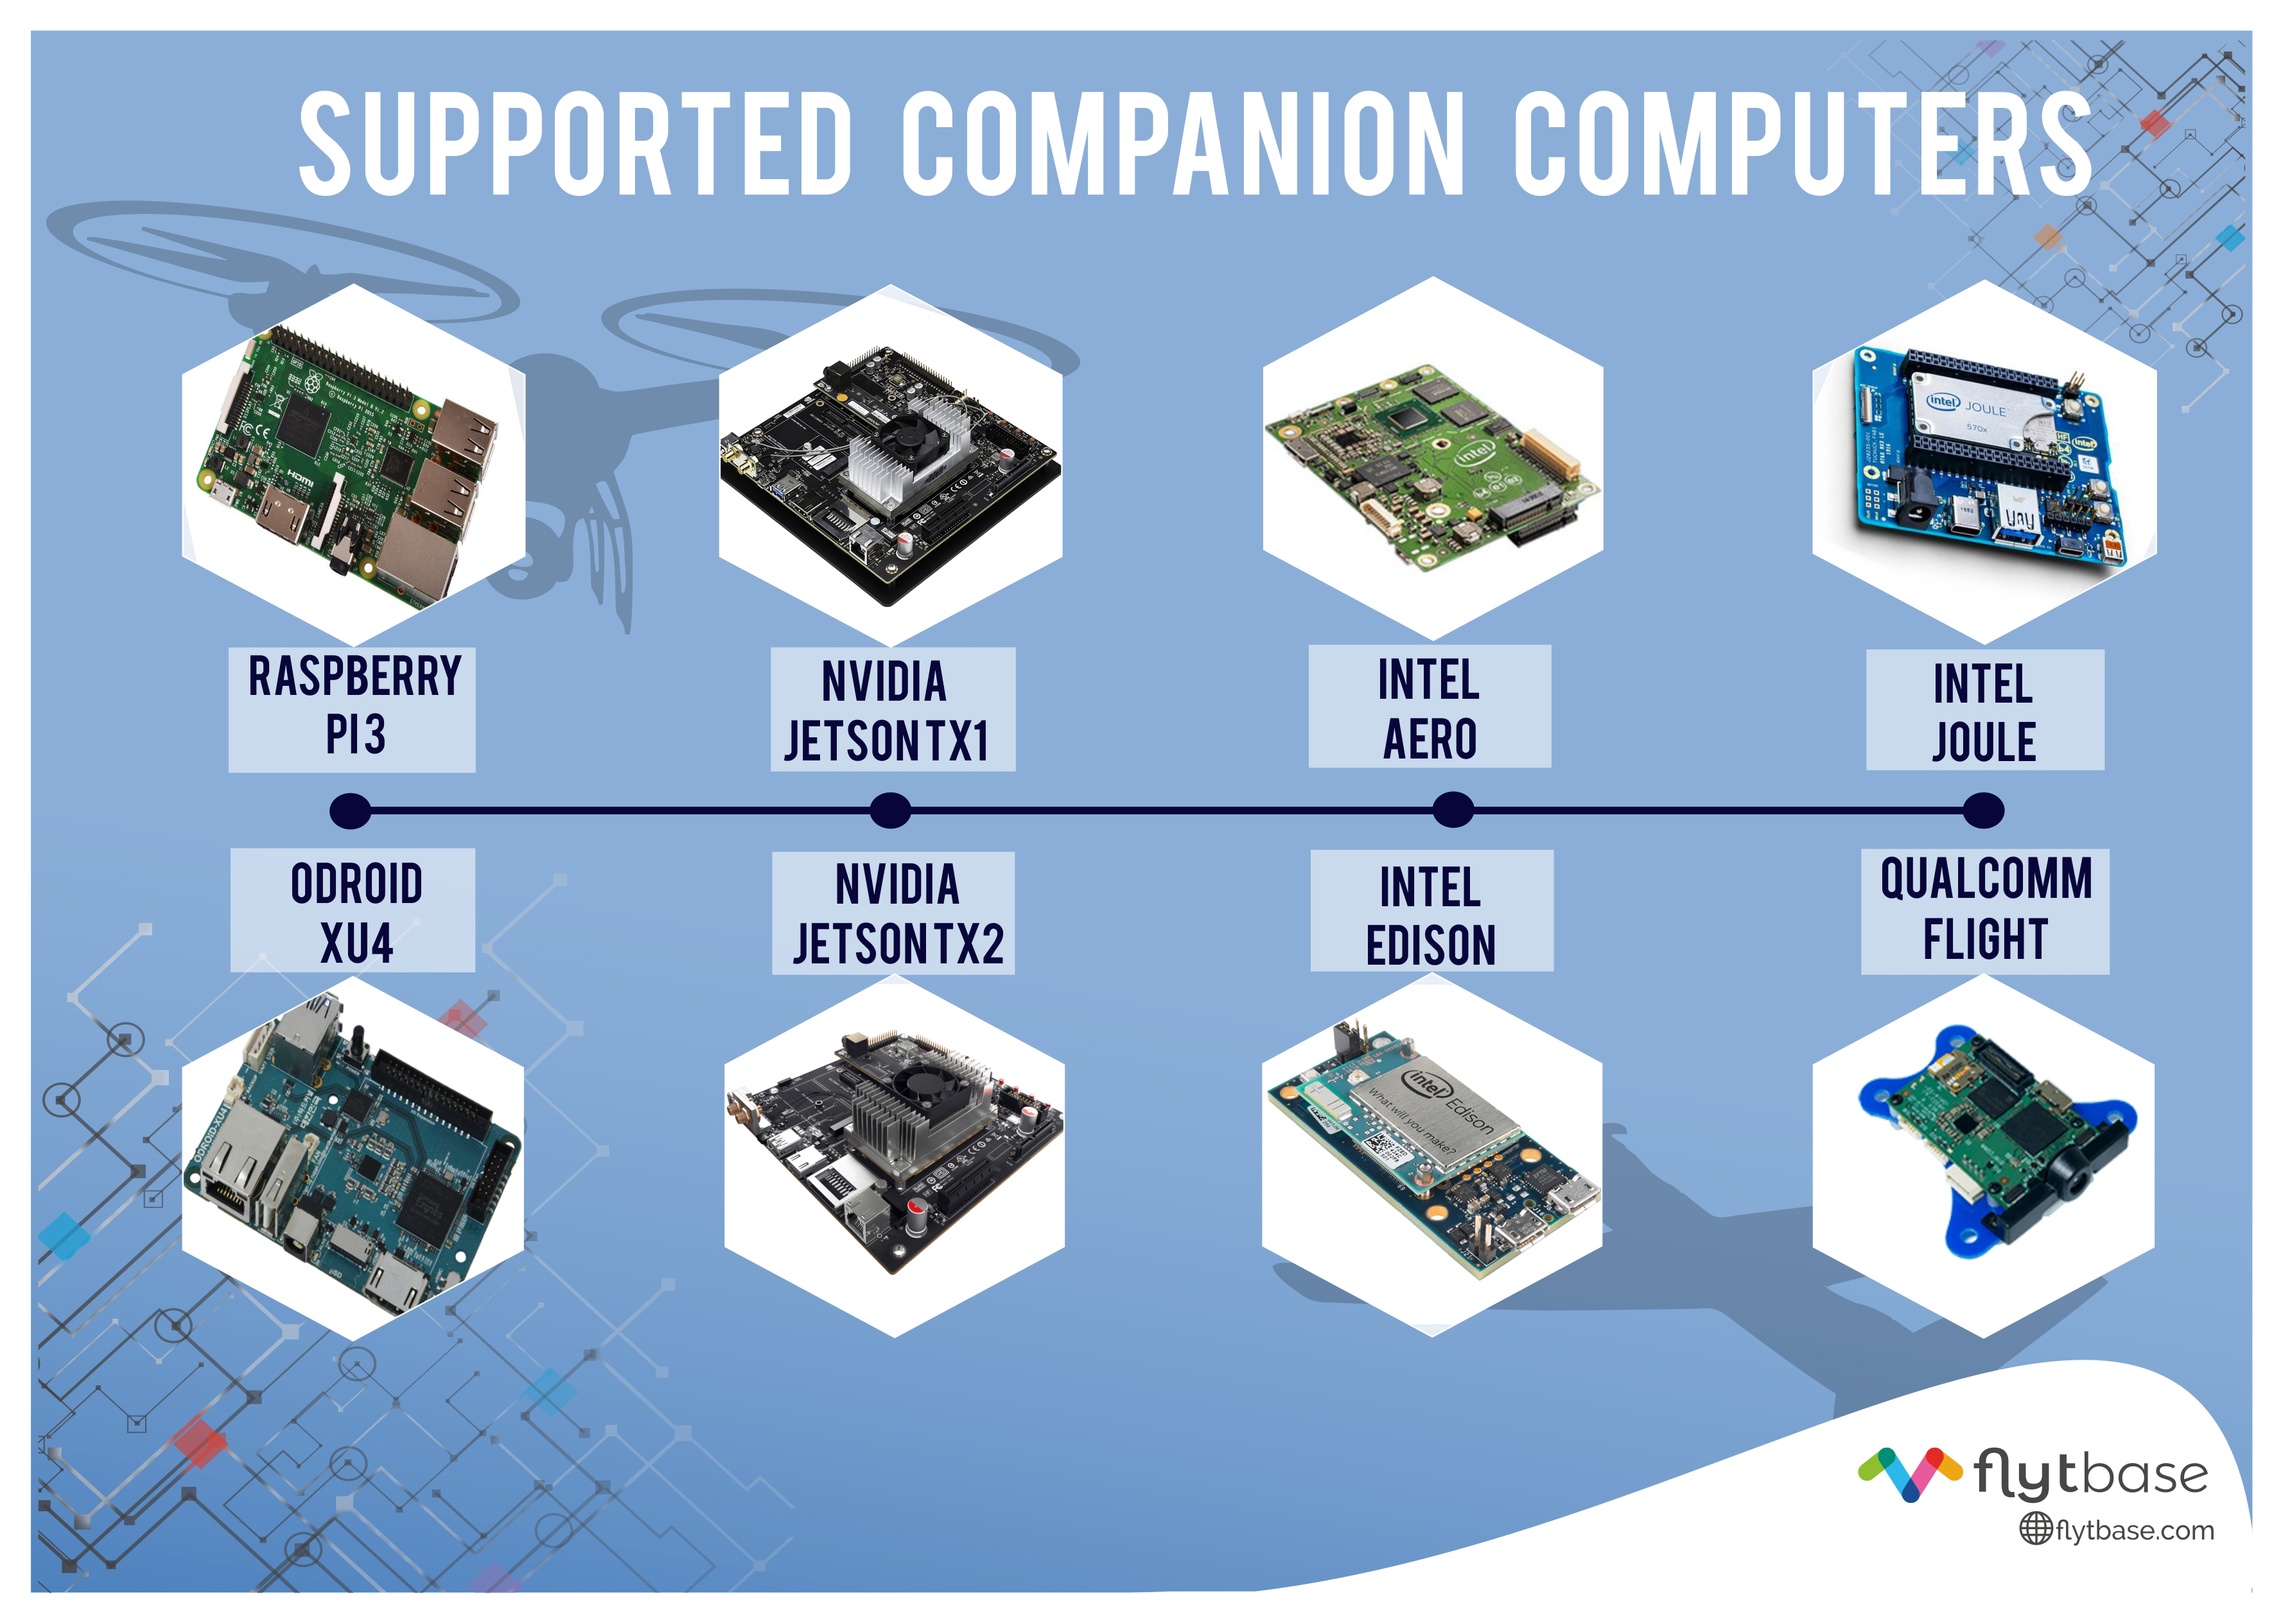
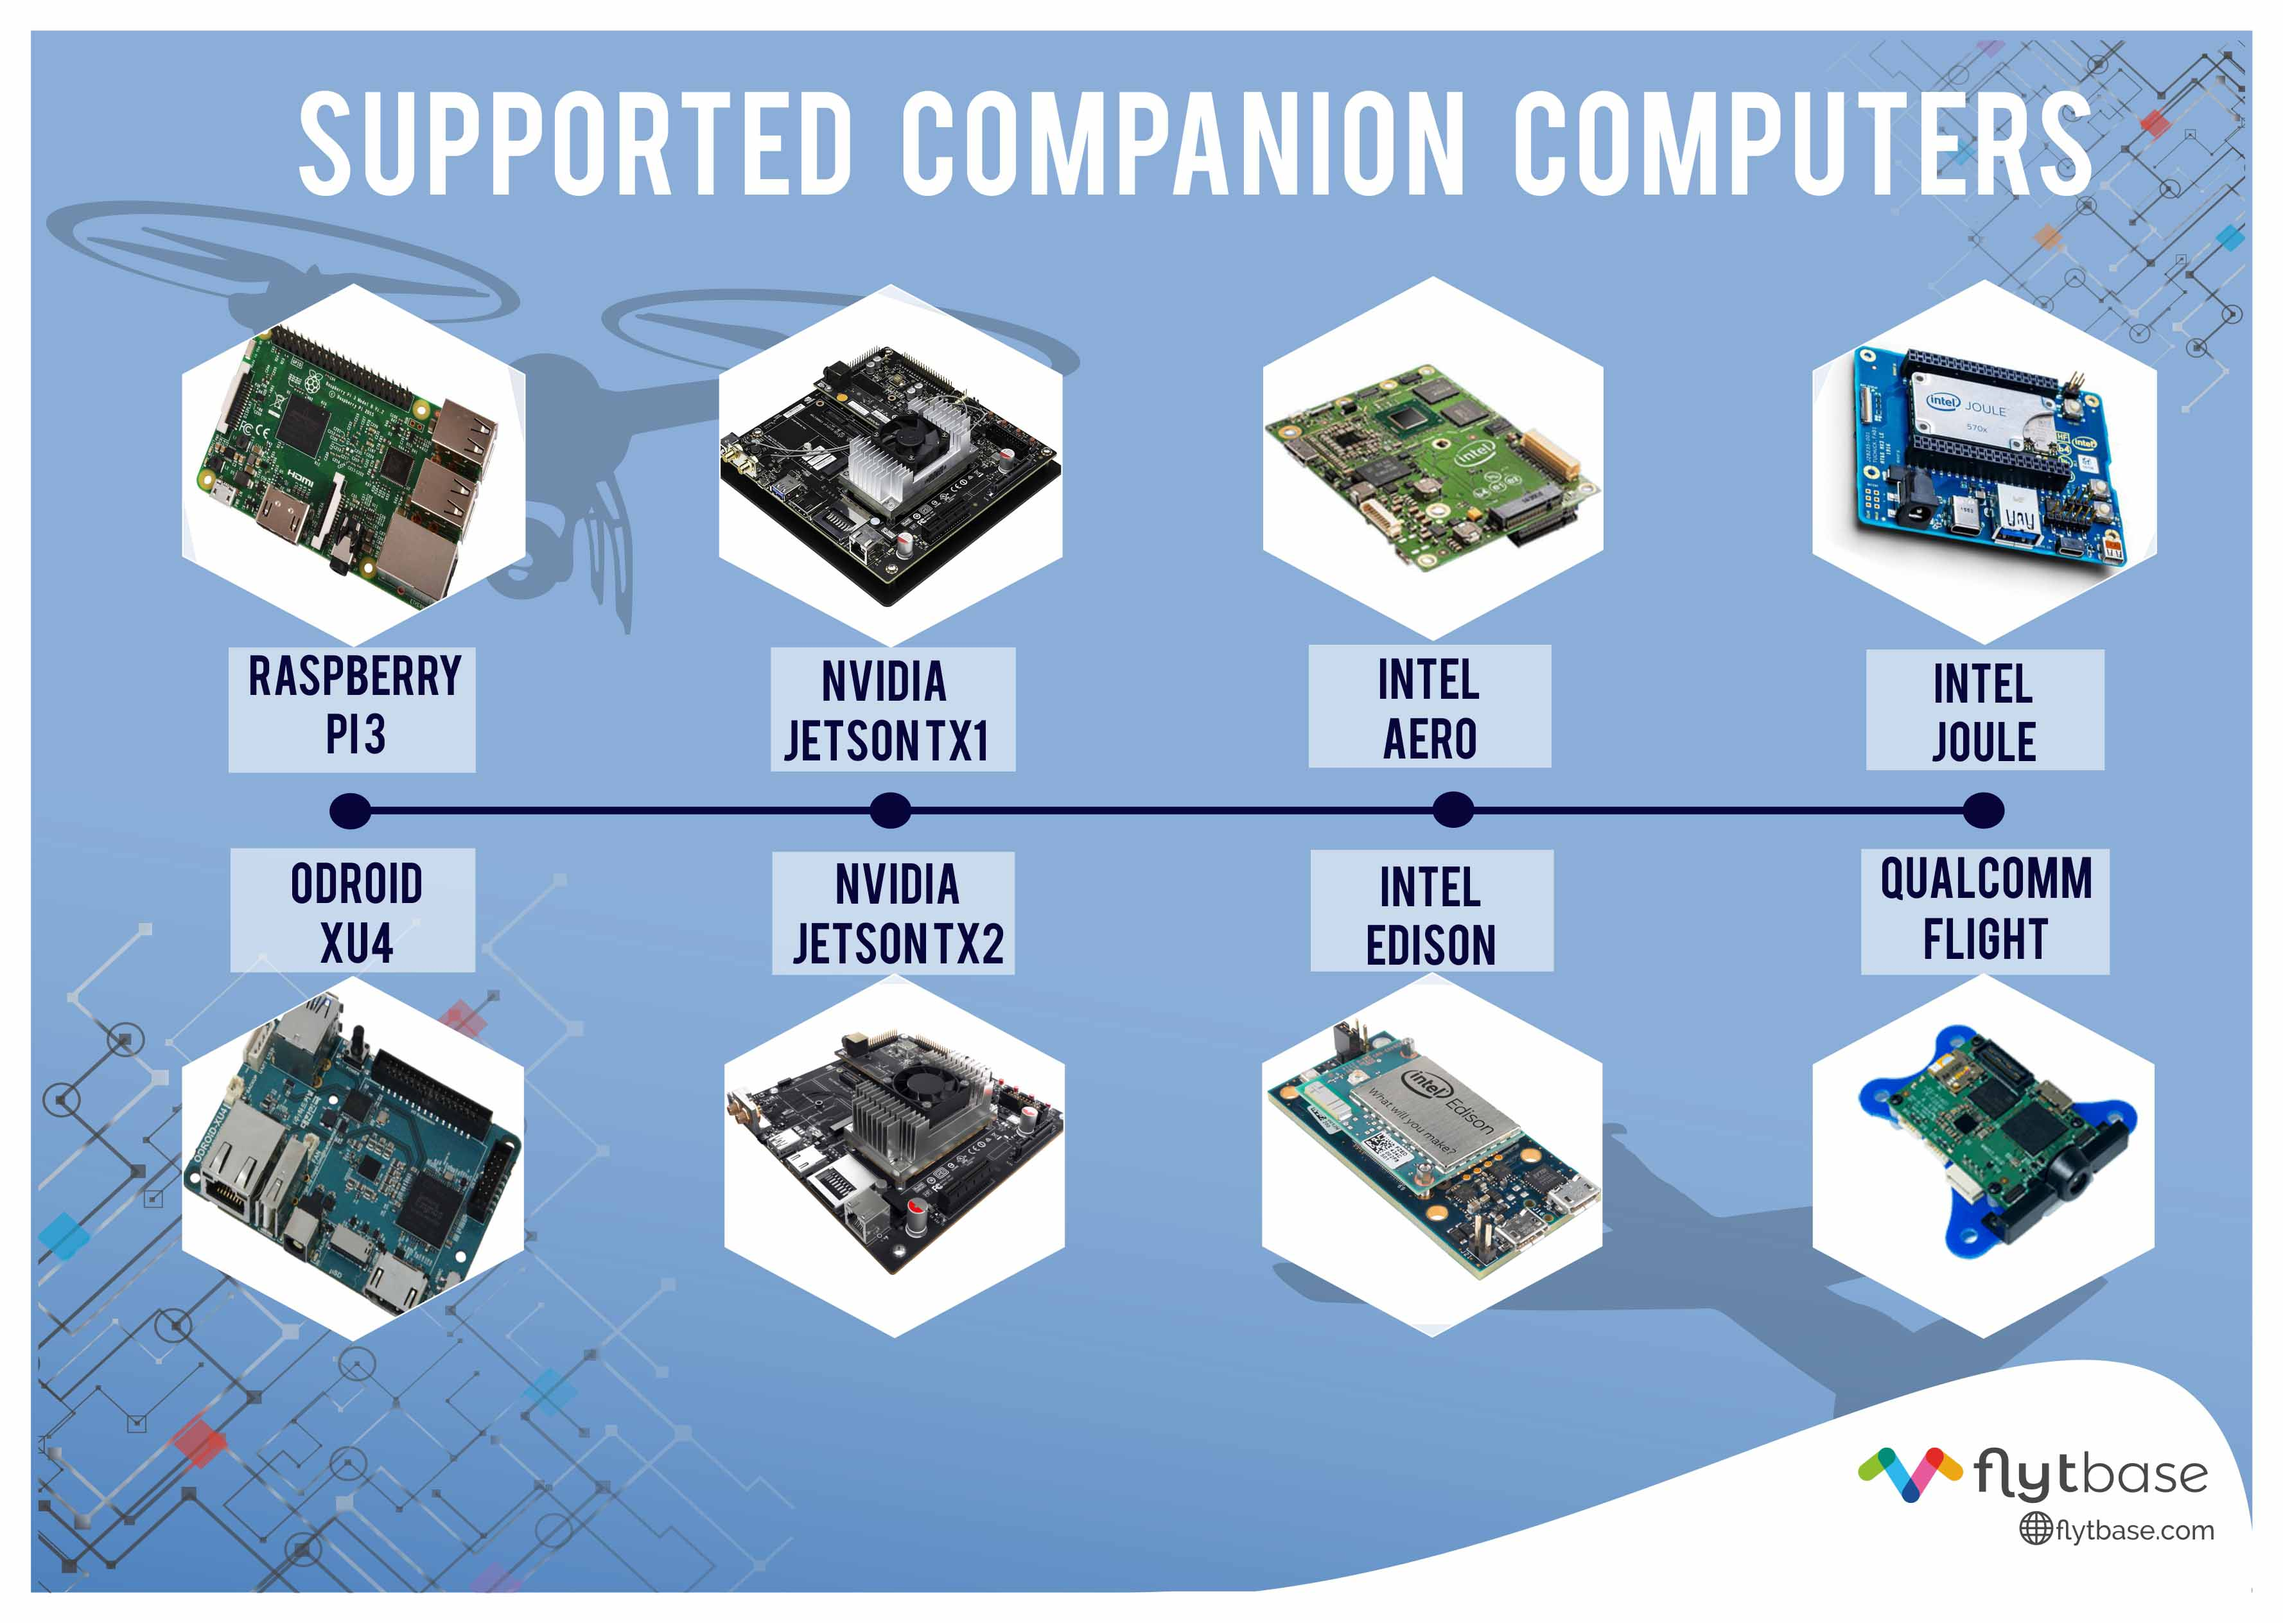
added supported langs and graphic for cc supported

diff --git a/dev/source/docs/flytos.rst b/dev/source/docs/flytos.rst
@@ -7,7 +7,13 @@ FlytOS
 `FlytOS <https://flytbase.com>`_ is a software framework which provides Drone APIs and SDKs for building high-level drone applications such as aerial delivery, precision agriculture, surveys, photography, industrial inspections and disaster management. It is designed to enable drone-developers build advanced drone applications using its open APIs.
 
 FlytOS is based on Linux and ROS (Robot Operating System), making it an ideal platform for building commercial as well as research orientated drone applications. It supports a wide range of hardware options such as *Raspberry Pi 3, Odroid XU4, Nvidia TX1, Intel Edison, Intel Aero and FlytPOD*. It uses MAVLink to communicate with the autopilot, and exposes high level FlytAPIs in *ROS, CPP, Python, REST and Websocket*. |br|
-*Insert companion computer image here*
+
+.. figure:: ../images/flytosccsupport.jpg
+    :target: ../_images/flytosccsupport.jpg
+    :align: center
+
+    Supported Companion Computers
+
 This makes it easy to build high-level applications using computer-vision, machine-learning, cloud-connectivity and enables developers to create their custom user-interfaces on web/mobile devices of their choice. FlytOS also has modules to manage payloads, security and updates. The modular design of FlytOS allows for integration with external ROS/Linux libraries and custom data plumbing between onboard and offboard apps. FlytOS aims to provide a standard language for the drone application developers to talk to their drones.
 
 .. youtube:: CZFVWDN5Gcc
@@ -47,18 +53,33 @@ Supported Companion Computers
 
 Supported Languages
 ===================
-* `PYTHON <http://docs.flytbase.com/docs/FlytOS/Developers/BuildingCustomApps/OnboardPython.html#write-onboard-python>`_
-* `C++ <http://docs.flytbase.com/docs/FlytOS/Developers/BuildingCustomApps/OnboardCPP.html#write-onboard-cpp>`_
-* `ROS <http://api.flytbase.com/?shell#introduction>`_
-* `ROSCPP <http://api.flytbase.com/?cpp--ros#introduction>`_
-* `ROSPY <http://api.flytbase.com/?python--ros#introduction>`_
-* `JS REST <http://api.flytbase.com/?javascript--REST#introduction>`_
-* `JS WEBSOCKET <http://api.flytbase.com/?javascript--Websocket#introduction>`_
+
+FlytOS offers Drone APIs for building applications with onboard as well as remote components.
+
+Onboard APIs
+------------
+
+These are APIs available onboard the companion computer and can be used for developing domain specific intelligence and business logic. Typical candidates are tasks requiring high reliability, low latency and relatively low processing power as offered by the onboard computers.
+
+* `C++ <http://api.flytbase.com/?cpp#>`_
+* `Python <http://api.flytbase.com/?python#>`_
+* `ROSCpp <http://api.flytbase.com/?cpp--ros#introduction>`_
+* `ROSPy <http://api.flytbase.com/?python--ros#introduction>`_
+
+Click on corresponding links to know more about building custom apps in `cpp <http://docs.flytbase.com/docs/FlytOS/Developers/BuildingCustomApps/OnboardCPP.html#write-onboard-cpp>`_ and `python <http://docs.flytbase.com/docs/FlytOS/Developers/BuildingCustomApps/OnboardPython.html#write-onboard-python>`_.
+
+Remote APIs
+-----------
+
+These are APIs for building web/mobile apps for remote devices. These are helpful for creating custom User Interfaces specific to the application as well as for integrating any off-board processing. The APIs are available as `RESTful <http://api.flytbase.com/?javascript--REST#introduction>`_ and `WebSocket <http://api.flytbase.com/?javascript--Websocket#introduction>`_ requests, where typically REST is used for sending commands to the drone and WebSocket for getting continual data stream (telemetry). Click one of the below links, to know more about building custom apps for web and mobile.
+
+* `JS <http://docs.flytbase.com/docs/FlytOS/Developers/BuildingCustomApps/RemoteWeb.html#write-remote-web>`_
+* `Java (Android) <http://docs.flytbase.com/docs/FlytOS/Developers/BuildingCustomApps/RemoteMobile.html#write-remote-mobile>`_
 
 Sample Applications
 ===================
 
-We have made available, a few sample apps to help you get started with drone application development. You can find them on github at `FlytSamples github repository <https://github.com/flytbase/flytsamples>`_. These sample apps are written in all of the above supported languages. Web/android developers could begin with a simple `Joystick App <https://github.com/flytbase/flytsamples/tree/master/Mobile-Apps/Java-Apps/Joystick>`_. A couple of easy-to-understand `CPP/Python/ROS based apps <https://github.com/flytbase/flytsamples/tree/master/CPP-Python-ROS-Apps>`_ are also available.
+We have made available, a few sample apps to help you get started with drone application development. You can find them on github at `FlytSamples github repository <https://github.com/flytbase/flytsamples>`_. These sample apps are written in all of the above :ref:`supported languages <supported_languages>`. Web/android developers could begin with a simple `Joystick App <https://github.com/flytbase/flytsamples/tree/master/Mobile-Apps/Java-Apps/Joystick>`_. A couple of easy-to-understand `CPP/Python/ROS based apps <https://github.com/flytbase/flytsamples/tree/master/CPP-Python-ROS-Apps>`_ are also available.
 
 GPS based Object Following
 --------------------------
@@ -85,7 +106,7 @@ Important Links
 ---------------
 
 `Download FlytOS <https://my.flytbase.com/downloads/>`_ now, and get started with Companion Computer of your choice. |br|
-You can refer `FlytOS installation instructions <http://docs.flytbase.com/docs/FlytOS/GettingStarted/FlytOSInstallationGuide.html>`_  for a step-by-step installation guide  |br|
+You can refer `FlytOS installation instructions <http://docs.flytbase.com/docs/FlytOS/GettingStarted/FlytOSInstallationGuide.html>`_  for a step-by-step installation guide.  |br|
 You can post your queries/issues on FlytOS `forum <http://forums.flytbase.com/>`_. |br|
 Use the detailed `API reference <http://api.flytbase.com/>`_ to develop drone apps using your preferred language (Python, C++, ROS, RESTful, Websocket, etc.). |br|
 We have made available, a few `sample applications <https://github.com/flytbase/flytsamples>`_ are available for the developers to get started quickly.
